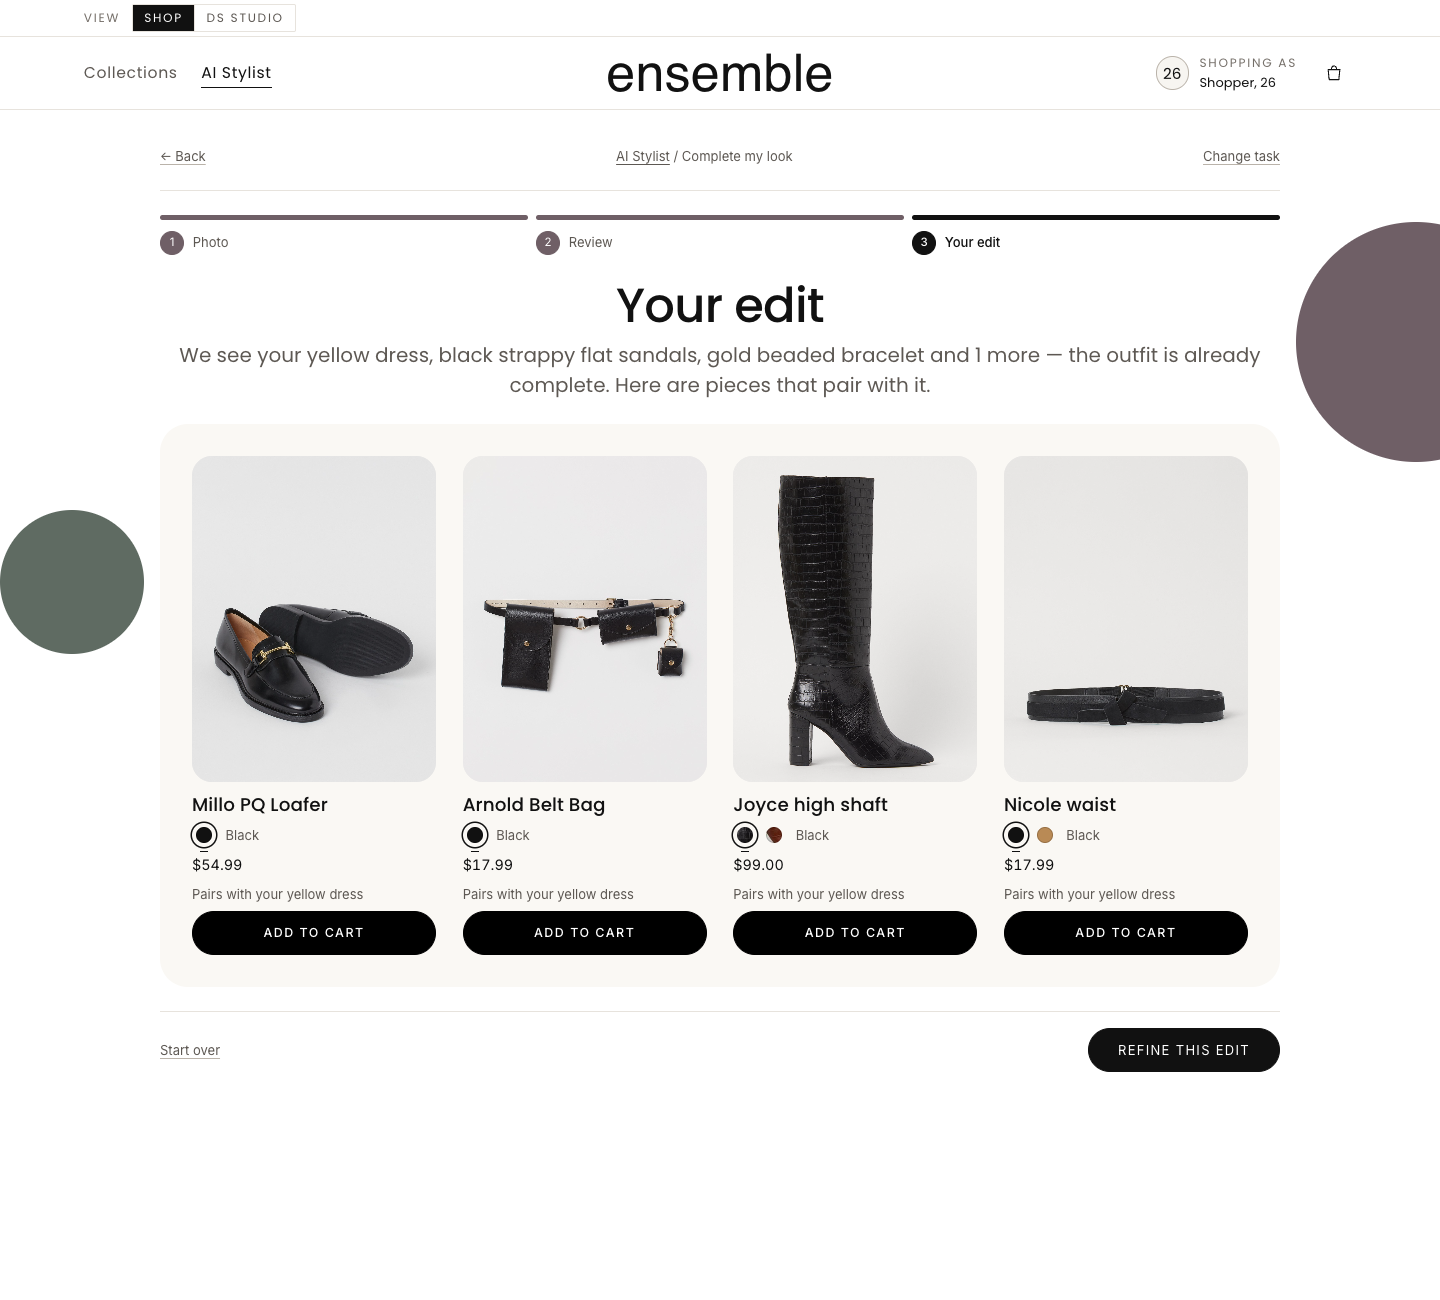
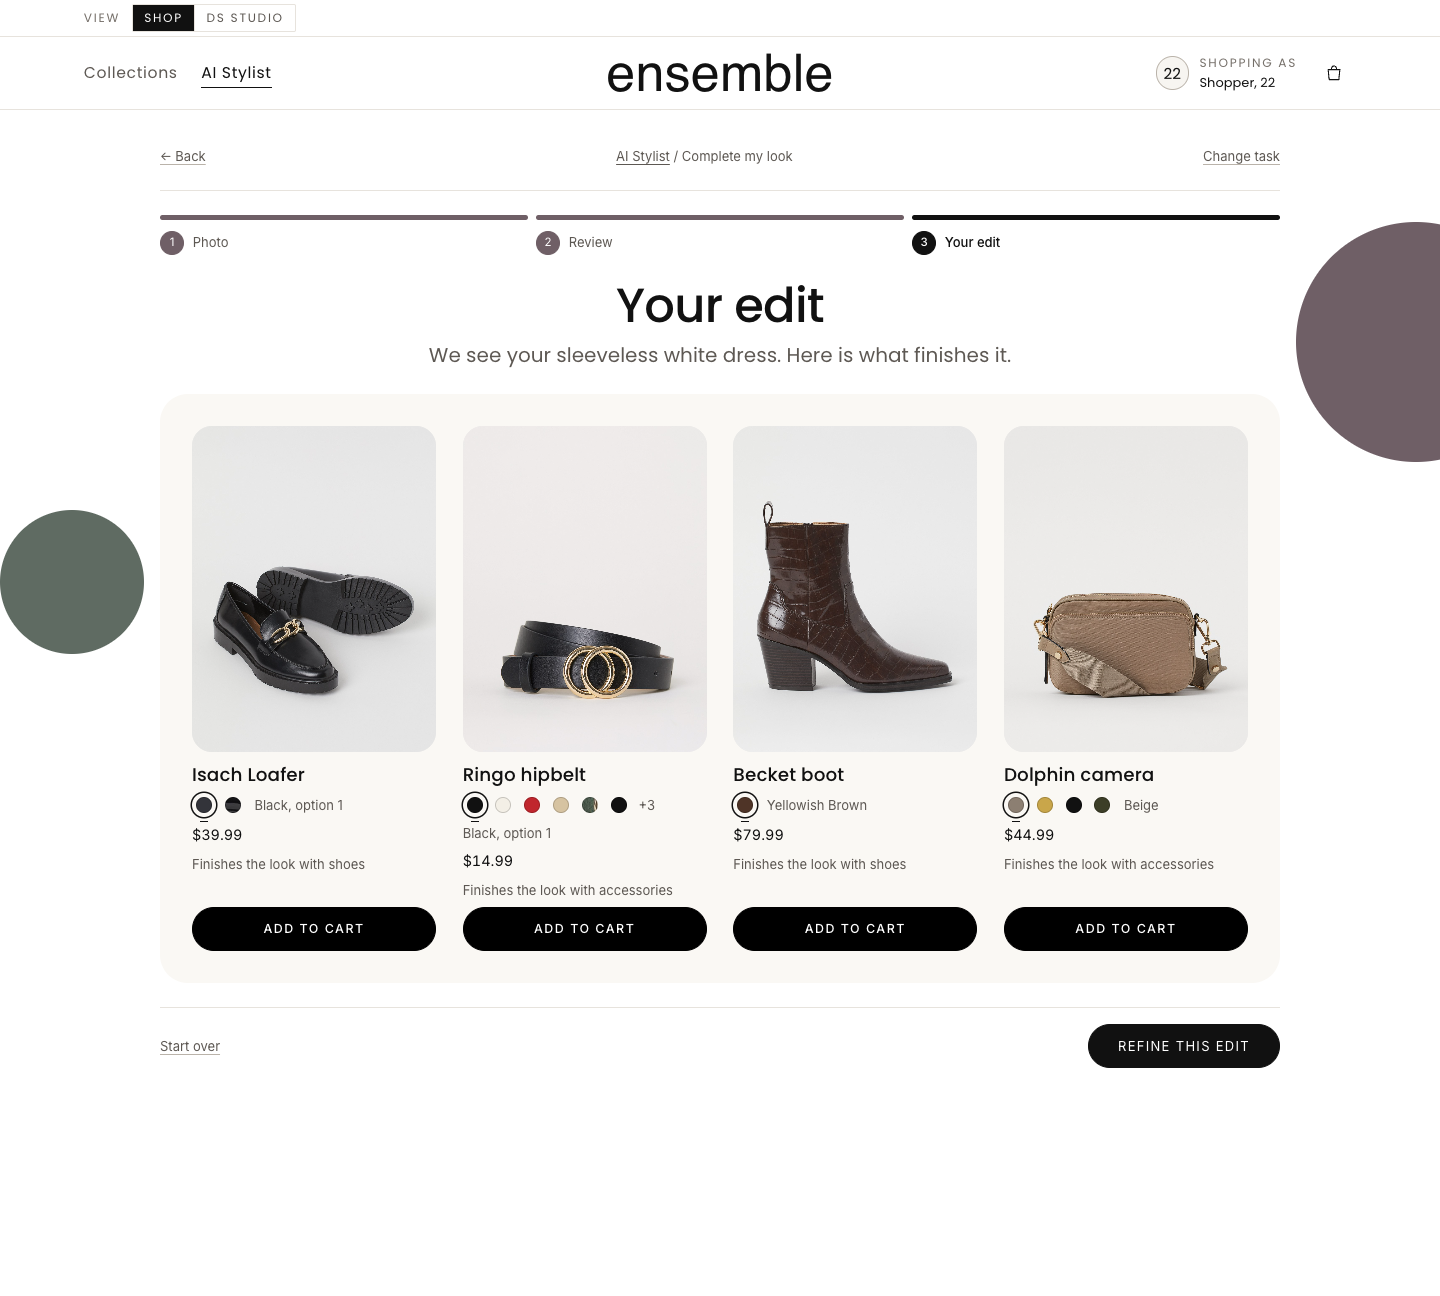
docs(readme): tour from the local site with Shopper 22 and the author's photos; D-052
Collections and product page show 'Shopper, 22'; Find this piece and Complete my look use two photos of the
author (with consent); the live-demo and hosting notes describe the GPU-hosted local models.

diff --git a/scripts/ui/readme_shots.js b/scripts/ui/readme_shots.js
@@ -1,12 +1,14 @@
-// README screenshots of the real app on the live backend (no mock-ups, no generated imagery).
-//   PLAYWRIGHT=/path/to/playwright node scripts/ui/readme_shots.js [base-url]
-// Default base: `make pages-preview` (the Pages build, calling the live Modal API). The stylist flows use the CC0
-// photo data/raw/outfit_photos/full_03.jpg (credited in CREDITS.csv), never a private photo.
+// README screenshots of the real app (no mock-ups, no generated imagery).
+//   PLAYWRIGHT=/path/to/playwright PHOTO_FIND=… PHOTO_LOOK=… node scripts/ui/readme_shots.js [base-url]
+// Default base: the local site (`make serve`, port 8010). The shop pages show the profile PROFILE ("Shopper, 22").
+// The stylist flows use PHOTO_FIND and PHOTO_LOOK: photos of the repository owner, used with her consent (defaults:
+// the CC0 photo data/raw/outfit_photos/full_03.jpg, credited in CREDITS.csv). Never a third party's private photo.
 const { chromium } = require(process.env.PLAYWRIGHT || 'playwright');
-const BASE = process.argv[2] || 'http://localhost:8040/ensemble-outfit-recommender/';
+const BASE = process.argv[2] || 'http://localhost:8010/';
 const OUT = 'docs/assets';
-const PHOTO = 'data/raw/outfit_photos/full_03.jpg';
-const PRODUCT = '898713001';   // Hanoi Oversize Blazer: a houndstooth, so its swatch is a fabric crop
+const PHOTO_FIND = process.env.PHOTO_FIND || 'data/raw/outfit_photos/full_03.jpg';
+const PHOTO_LOOK = process.env.PHOTO_LOOK || 'data/raw/outfit_photos/full_03.jpg';
+const PROFILE = process.env.PROFILE || '133835';   // the first "Shopper, 22" in the profile list
 
 const ready = p => p.waitForFunction(() => [...document.images].filter(i => { const r = i.getBoundingClientRect(); return r.bottom > 0 && r.top < innerHeight && r.width > 0; })
   .every(i => i.complete && i.naturalWidth > 0), null, {timeout: 60000}).catch(() => {});
@@ -17,7 +19,7 @@ const fresh = async (p, hash) => { await p.goto(BASE + hash); await settle(p); a
 async function find(p) {
   await fresh(p, '#/stylist/find');
   await shot(p, 'find_photo');
-  await p.setInputFiles('.dropzone input', PHOTO); await p.waitForSelector('.photo-preview img');
+  await p.setInputFiles('.dropzone input', PHOTO_FIND); await p.waitForSelector('.photo-preview img');
   await p.click('#find-next');
   await p.waitForSelector('.piece', {timeout: 300000}); await settle(p);
   // Choose the main garment as a shopper does: tap it (its box comes from clothes parsing, D-051).
@@ -31,13 +33,17 @@ async function find(p) {
 
 async function look(p) {
   await fresh(p, '#/stylist/look');
-  await p.setInputFiles('.dropzone input', PHOTO); await p.waitForSelector('.photo-preview img');
+  await p.setInputFiles('.dropzone input', PHOTO_LOOK); await p.waitForSelector('.photo-preview img');
   await p.click('#look-detect');
   await p.waitForFunction(() => location.hash.includes('step=review'), null, {timeout: 300000}); await settle(p);
-  // The model may call a shirt dress a "top": correct it in Review, as a shopper would.
-  const first = await p.$('.garment:first-child [data-field="category"]');
-  const desc = await p.$eval('.garment:first-child .garment__name', e => e.textContent.toLowerCase());
-  if (/dress/.test(desc)) await first.selectOption('dress');
+  // Keep only the dress, as a shopper would (Complete my look then finishes the outfit around it): remove every
+  // other spotted piece; if the dress was called a "top", correct its category.
+  const names = await p.$$eval('.garment', gs => gs.map(g => [g.querySelector('[data-field=category]').value, g.querySelector('.garment__name').textContent.toLowerCase()]));
+  let keep = names.findIndex(([c, n]) => c === 'dress' || /dress/.test(n));
+  if (keep < 0) keep = 0;
+  for (let i = names.length - 1; i >= 0; i--) if (i !== keep) await p.click(`.garment:nth-child(${i + 1}) [data-remove]`);
+  const cat = await p.$('.garment [data-field="category"]');
+  if ((await cat.inputValue()) !== 'dress') await cat.selectOption('dress');
   await shot(p, 'look_review', {fullPage: true});
   await p.click('#review-next');
   await p.waitForFunction(() => location.hash.includes('step=edit'), null, {timeout: 300000}); await settle(p);
@@ -58,12 +64,15 @@ async function ask(p) {
 
 (async () => {
   const b = await chromium.launch({channel: 'chrome'});
-  const desk = await (await b.newContext({viewport: {width: 1440, height: 900}})).newPage();
+  const ctxOpts = {viewport: {width: 1440, height: 900}};
+  const desk = await (await b.newContext(ctxOpts)).newPage();
+  await desk.addInitScript(id => { try { localStorage.setItem('ensemble.profile', id); } catch {} }, PROFILE);
   await desk.goto(BASE + '#/'); await settle(desk);
   await shot(desk, 'home_desktop');
   await desk.goto(BASE + '#/collections'); await desk.waitForSelector('main .grid .card', {timeout: 120000}); await settle(desk);
   await shot(desk, 'collections_desktop');
-  await desk.goto(BASE + `#/product/${PRODUCT}`); await desk.waitForSelector('.pdp [data-add]', {timeout: 120000}); await settle(desk);
+  // The product page: the first piece in this shopper's edit, opened from Collections as a shopper would.
+  await desk.click('main .grid > li:first-child .card__name a'); await desk.waitForSelector('.pdp [data-add]', {timeout: 120000}); await settle(desk);
   await shot(desk, 'product_desktop');
   await desk.goto(BASE + '#/stylist'); await settle(desk);
   await shot(desk, 'stylist_hub');
@@ -73,6 +82,7 @@ async function ask(p) {
   await desk.goto(BASE + '#/studio'); await desk.waitForSelector('table.data tbody tr', {timeout: 120000}); await settle(desk);
   await shot(desk, 'studio_desktop');
   const phone = await (await b.newContext({viewport: {width: 390, height: 844}, deviceScaleFactor: 2})).newPage();
+  await phone.addInitScript(id => { try { localStorage.setItem('ensemble.profile', id); } catch {} }, PROFILE);
   await phone.goto(BASE + '#/'); await settle(phone);
   await shot(phone, 'home_mobile');
   await phone.goto(BASE + '#/stylist/ask'); await settle(phone);

diff --git a/README.md b/README.md
@@ -15,9 +15,11 @@ In machine learning, it also means several models combined. This project is both
 
 > **The live demo is the real application.** GitHub Pages serves the same HTML, CSS and JavaScript that
 > `make serve` serves locally, and every request goes to the FastAPI backend running on Modal: live
-> recommendations, photo upload with FashionCLIP visual search, outfit analysis and the grounded AI stylist
-> (Claude). Catalogue photos come from Cloudflare R2. Nothing is pre-recorded. The backend scales to zero when
-> idle, so the first visit after a quiet period takes about 20–30 seconds.
+> recommendations, photo upload with FashionCLIP visual search, outfit analysis and the grounded AI stylist —
+> on **the same open models as the local site** (Qwen2.5-VL and Qwen3-VL, served by Ollama on a Modal GPU).
+> Catalogue photos come from Cloudflare R2. Nothing is pre-recorded. Both the API and the GPU scale to zero when
+> idle: the first visit after a quiet period takes about 20–30 seconds, and the stylist's GPU about a minute more
+> (it is woken as soon as you open the AI Stylist).
 
 **How it is organised for shoppers**: pages follow the decision you are making, not the model behind it
 ([product-flow spec](docs/AI_STYLIST_PRODUCT_FLOW.md)):
@@ -32,16 +34,17 @@ In machine learning, it also means several models combined. This project is both
 | `#/stylist/look` | Complete my look: photo → **review what we spotted** → your edit of four (mixed kinds) → refine with the stylist |
 | `#/studio…` | DS Studio: offline evaluation, serving status, recommendation inspection |
 
-### A tour of the live site
+### A tour of the site
 
-All screenshots are the live site (Pages + Modal). The stylist flows use a CC0 street-style photo (credit below).
+Screenshots from the local site, which runs the same system as the live demo. The shop pages show the profile
+"Shopper, 22"; the stylist flows use two photos of the author.
 
 <table>
 <tr>
 <td width="50%"><img src="docs/assets/collections_desktop.png" alt="Collections: Selected for you, Buy it again and Trending as tabs, with category filters and product cards"><br>
 <b>Collections.</b> The ranker's <i>Selected for you</i>, <i>Buy it again</i> and <i>Trending</i>, one card per product family.</td>
 <td width="50%"><img src="docs/assets/product_desktop.png" alt="Product page for a houndstooth blazer whose colour swatch shows the houndstooth fabric"><br>
-<b>Product page.</b> Swatches are read from each colourway's photo: plain pieces get a colour-card chip, patterns (here a houndstooth) show their fabric.</td>
+<b>Product page.</b> The first piece in this shopper's edit. Swatches are read from each colourway's photo: plain pieces get a colour-card chip, patterns show their fabric.</td>
 </tr>
 <tr>
 <td><img src="docs/assets/stylist_hub.png" alt="AI Stylist hub: What can we help with? Ask the stylist, Find this piece, Complete my look"><br>
@@ -53,17 +56,17 @@ All screenshots are the live site (Pages + Modal). The stylist flows use a CC0 s
 <td><img src="docs/assets/ask_answer.png" alt="The stylist answers with four shoes for wide-leg trousers, named in the text and shown as product cards"><br>
 <b>A grounded answer.</b> At most four products, each one a catalogue item a tool returned, named, never numbered.</td>
 <td><img src="docs/assets/find_choose.png" alt="Find this piece: the shopper frames the shirt dress on the photo; the spotted pieces are listed on the side"><br>
-<b>Find this piece · choose.</b> The photo stays clean until you tap a piece or drag around one; each chosen piece shows what it is and can be corrected.</td>
+<b>Find this piece · choose.</b> The pieces in the photo are spotted and listed; tap one (here the white blouse) or drag around it, and correct what it is if needed.</td>
 </tr>
 <tr>
 <td><img src="docs/assets/find_results.png" alt="Find results: the four closest pieces to the framed top"><br>
-<b>Find this piece · results.</b> The four closest catalogue pieces for each chosen piece (FashionCLIP + street-to-shop adapter).</td>
+<b>Find this piece · results.</b> The four closest catalogue pieces to the chosen blouse (FashionCLIP + street-to-shop adapter).</td>
 <td><img src="docs/assets/look_review.png" alt="Complete my look review: detected pieces numbered on the photo and listed for correction"><br>
-<b>Complete my look · review.</b> Claude names each piece; a clothes-parsing model (SegFormer) frames it. The shopper fixes anything before it is used.</td>
+<b>Complete my look · review.</b> The vision model's detections, for the shopper to fix before anything is used; here only the white dress is kept.</td>
 </tr>
 <tr>
 <td><img src="docs/assets/look_edit.png" alt="Complete my look: an edit of four pieces of different kinds that pair with the outfit"><br>
-<b>Complete my look · your edit.</b> Four picks of different kinds from Complete the Look (Track B) for the confirmed outfit.</td>
+<b>Complete my look · your edit.</b> Four picks of different kinds (shoes, a belt, boots, a bag) from Complete the Look (Track B) for the dress.</td>
 <td><img src="docs/assets/studio_desktop.png" alt="DS Studio offline evaluation tables"><br>
 <b>DS Studio.</b> The data-science view: offline evaluation, serving, inspection.</td>
 </tr>
@@ -75,10 +78,9 @@ All screenshots are the live site (Pages + Modal). The stylist flows use a CC0 s
   <img src="docs/assets/ask_mobile.png" alt="Ask the stylist on a phone" width="30%">
 </p>
 
-<p align="center"><em>Photo in the stylist flows:
-<a href="https://commons.wikimedia.org/wiki/File:New_York_Street_Fashion_(Unsplash).jpg">New York Street Fashion</a>,
-Yegide Matthews, CC0. Garment frames come from clothes parsing (SegFormer), not from the language model: on
-40 DeepFashion2 street photos this lifts the live detector's box accuracy from mean IoU 0.28 to 0.65 (D-051).</em></p>
+<p align="center"><em>Garment frames: the vision model's own boxes, with a clothes-parsing model (SegFormer) filling in
+any it leaves out; for a loose detector such as Claude it replaces them, lifting box accuracy from mean IoU 0.28 to
+0.65 on 40 DeepFashion2 street photos (D-051).</em></p>
 
 **Ensemble recommends clothing the way a stylist would:**
 - what *you* will likely buy next;
@@ -277,8 +279,10 @@ reimplemented for the web.
   (`deploy/modal_app.py`, `make modal-deploy`). GitHub Pages serves the static files from `main`; Modal runs
   the FastAPI app (CPU, scales to zero, one container) with the serving store, the versioned serving bundle
   and the FashionCLIP index on a Modal Volume; catalogue photos are served from a Cloudflare R2 bucket.
-  Outfit analysis and the assistant call the Claude API (Haiku) under a monthly budget cap; the garments it names
-  are framed by a SegFormer clothes parser baked into the image (D-051). The local-only
+  Outfit analysis and the stylist run **the local site's models**: Qwen2.5-VL 7B (detection) and Qwen3-VL 8B
+  (tool-calling chat) under Ollama on one Modal L4 GPU that scales to zero, is woken when a shopper opens the AI
+  Stylist, and stops at a $25 monthly GPU budget (D-052). Claude remains a supported backend (`ENSEMBLE_LLM=claude`),
+  with a SegFormer clothes parser framing its loose boxes (D-051). The local-only
   research tool **Label** is not offered by the hosted shop, and the hosted API refuses it.
 - **Fresh after every release** — both builds link the frontend under a content-versioned folder
   (`static/v-<hash>/`), so a browser or CDN can never mix a new page with old cached scripts. The colour

diff --git a/docs/DECISIONS.md b/docs/DECISIONS.md
@@ -1487,3 +1487,26 @@ need a licensed or self-trained parser.
 
 **Revisit if:** jewellery localisation matters (add a small-object detector), the hosted detector moves to a
 grounded VLM, or the parser's latency hurts the cold path.
+
+### D-052 — The live demo runs the local site's models on a scale-to-zero GPU
+
+**Date:** 2026-10-19. **Status:** accepted; replaces Claude as the hosted stylist backend (D-047 kept Claude for cost).
+
+**Context.** The local site (Qwen2.5-VL 7B for detection, Qwen3-VL 8B for the tool-calling stylist, via Ollama)
+localises garments better than the hosted Claude path (DeepFashion2 mean IoU 0.88 vs 0.65 with parsing, D-051), and
+the product owner wants the live demo to be the same system, with a larger budget.
+
+**Decision.** `deploy/modal_app.py` adds `OllamaGPU`: Ollama serving both models on one L4 GPU (models in the
+`ensemble-ollama-models` Volume), `scaledown_window=300`, one container. The API uses `ENSEMBLE_LLM=ollama-modal`
+(`ModalOllamaClient`: the same requests as the local `OllamaClient`, sent to the GPU class). Opening any AI Stylist
+page calls `/api/stylist/warm`, which starts the GPU ahead of the first photo or question. The container bills its
+own uptime (idle included) into the Modal Dict `ensemble-gpu-spend`; at **$25/month** the API refuses GPU requests
+and the stylist rests until the next month. Behind it the Modal workspace spend limit is **$5** above the $30 monthly
+free credits, so the web backend never stops.
+
+**Cost.** L4 ≈ $0.80/h only while awake; at portfolio traffic a few dollars a month, inside the free credits. The
+industry alternatives were weighed in the conversation: hosted APIs win below roughly 115k photos/month; an
+always-warm GPU (≈ $580/month) is what a product with a latency SLO would run.
+
+**Revisit if:** cold starts hurt (keep one GPU warm during set hours), the budget is hit regularly, or traffic makes
+an always-warm GPU or a managed open-model endpoint cheaper.

diff --git a/docs/GLOSSARY.md b/docs/GLOSSARY.md
@@ -282,3 +282,11 @@ industry standard and are named as such wherever they appear.
 | **Human parsing** / **clothes segmentation** | Labelling every pixel of a photo of a person (upper clothes, pants, shoes, bag…); the masks give tight garment boxes | DS |
 | **IoU (intersection over union)** | Overlap of a predicted and a true box: shared area ÷ combined area; 1 is perfect, ≥ 0.5 is the usual "hit" | DS |
 | **Localisation vs recognition** | *Where* an object is vs *what* it is; vision LLMs recognise well and localise loosely, so pipelines pair them with a detector or segmenter | Both |
+
+## Hosting open models (added with D-052)
+
+| term | meaning | audience |
+| --- | --- | --- |
+| **Scale to zero** | A service that shuts its servers down when idle and starts them on the next request: no cost while idle, a cold start after | Eng |
+| **Cold start** / **pre-warming** | The delay while an idle service (here a GPU and its models) starts; pre-warming starts it ahead of the request that needs it | Eng |
+| **Build vs buy (models)** | Self-hosting open-weights models vs paying per call for a hosted API; decided by traffic, latency targets, privacy and cost | Both |
